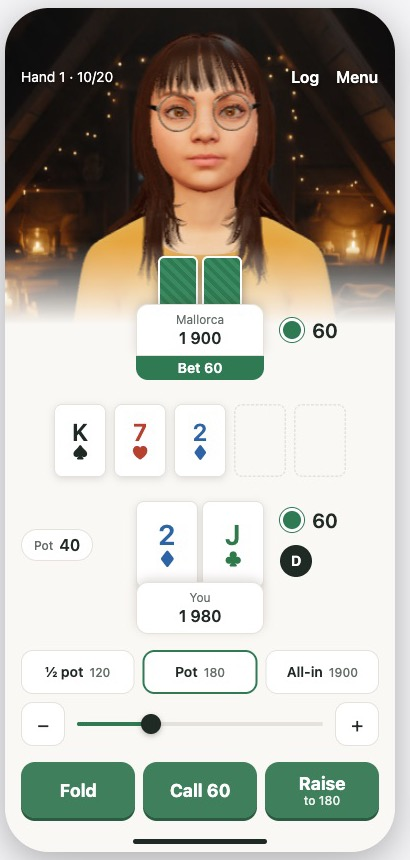
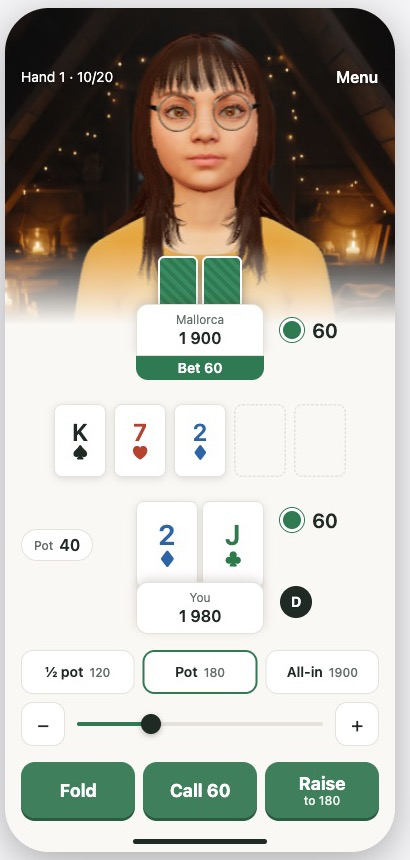
docs: no Log button and a lower dealer button on phones

Changed region(s): [[0.6732, 0.6349, 0.761, 0.7256], [0.7317, 0.0605, 0.7902, 0.1209]]

diff --git a/docs/design/table-rework/spec.md b/docs/design/table-rework/spec.md
@@ -110,14 +110,14 @@ tall. Everything stays on one screen: no sheet, no scroll.
 
 1. **Scene** without a frame: the attic with her live model across the full width, 316 px high, fading into the
    page background over its last quarter. Her head sits in the upper third of the screen.
-2. **Hand line** over the scene, under the system status bar: `Hand 1 · 10/20` on the left, Log and Menu on the
-   right, light text with a soft shadow.
+2. **Hand line** over the scene, under the system status bar: `Hand 1 · 10/20` on the left, Menu on the right,
+   light text with a soft shadow. No Log button on phones.
 3. **Her seat**: card backs overlapping the bottom of the scene, her block, the action strip; her bet to the
    right of the block.
 4. **Board**: five slots centred.
 5. **Your seat**: your cards centred, your block tucked under them; the pot pill on the left at the height of your
-   cards. On the right of your cards, in one column: your bet on top (level with the top third of your cards), the
-   dealer button 16 px below it. The bet slot is kept when you have no bet, so the dealer button never moves.
+   cards. On the right of your cards: your bet on top (level with the top third of your cards) and the dealer button
+   lower, level with your block. The bet slot is kept when you have no bet, so the dealer button never moves.
 6. **Raise sizing**, always visible: three presets (`½ pot`, `Pot`, `All-in`, each with its amount), then the
    slider with − and + buttons.
 7. **Actions**: Fold, Call, Raise in one row; Raise shows the chosen size (`Raise` / `to 180`).
@@ -143,7 +143,7 @@ tall. Everything stays on one screen: no sheet, no scroll.
 | Presets | 44 high, equal widths |
 | − and + | 44 × 44 |
 | Slider thumb | 20 visible, 44 hit area |
-| Log, Menu | 44 hit area |
+| Menu | 44 hit area |
 
 ### 6.4 Type scale: 12 · 14 · 16 · 18 · 20 · 24
 
@@ -151,7 +151,7 @@ tall. Everything stays on one screen: no sheet, no scroll.
 |---|---|
 | Names, captions, preset amounts, `Pot` label | 12 |
 | Hand line, action strip, preset labels | 14 |
-| Stacks, pot amount, Log, Menu | 16 |
+| Stacks, pot amount, Menu | 16 |
 | Action buttons (size line under Raise 12) | 18 |
 | Bet amount by the chip | 20 |
 | Board cards / your cards | 24 / 28 |
